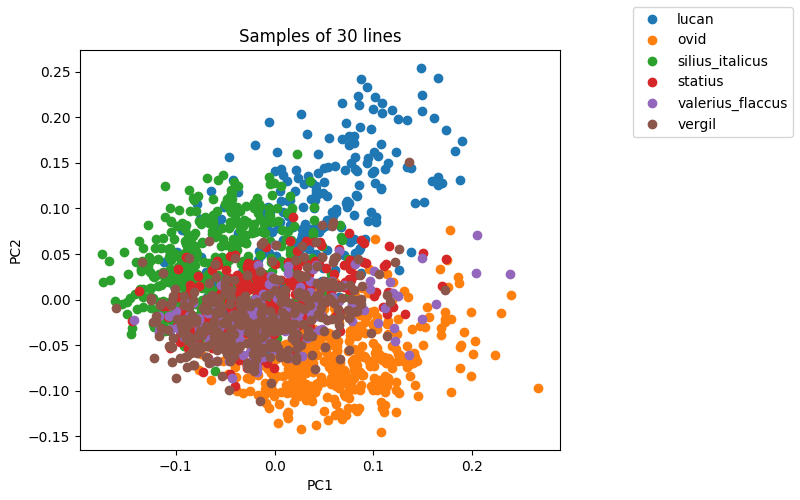
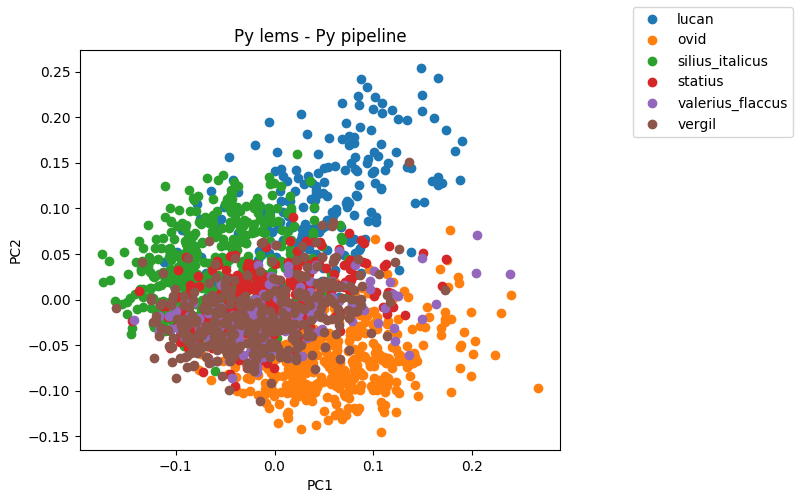
update plots

Changed region(s): [[0.2812, 0.06, 0.5312, 0.09], [0.3125, 0.93, 0.375, 0.96], [0.4375, 0.24, 0.4688, 0.27]]

diff --git a/bin/sample.py b/bin/sample.py
@@ -146,7 +146,7 @@ if __name__ == '__main__':
     # create figure, canvas
     fig = pyplot.figure(figsize=(8,5))
     ax = fig.add_axes([.1,.1,.6,.8])
-    ax.set_title('Samples of {} lines'.format(args.size))
+    ax.set_title(args.label)
     ax.set_xlabel('PC1')
     ax.set_ylabel('PC2')
 
@@ -160,7 +160,7 @@ if __name__ == '__main__':
 
     # if noninteractive, default to pdf output
     if args.noninteractive:
-        output_file = 'plot_{}.pdf'.format(args.label)
+        output_file = 'plot_{}.png'.format(args.label)
         print('Saving plot to {}'.format(output_file))
         fig.savefig(output_file)
     else:
